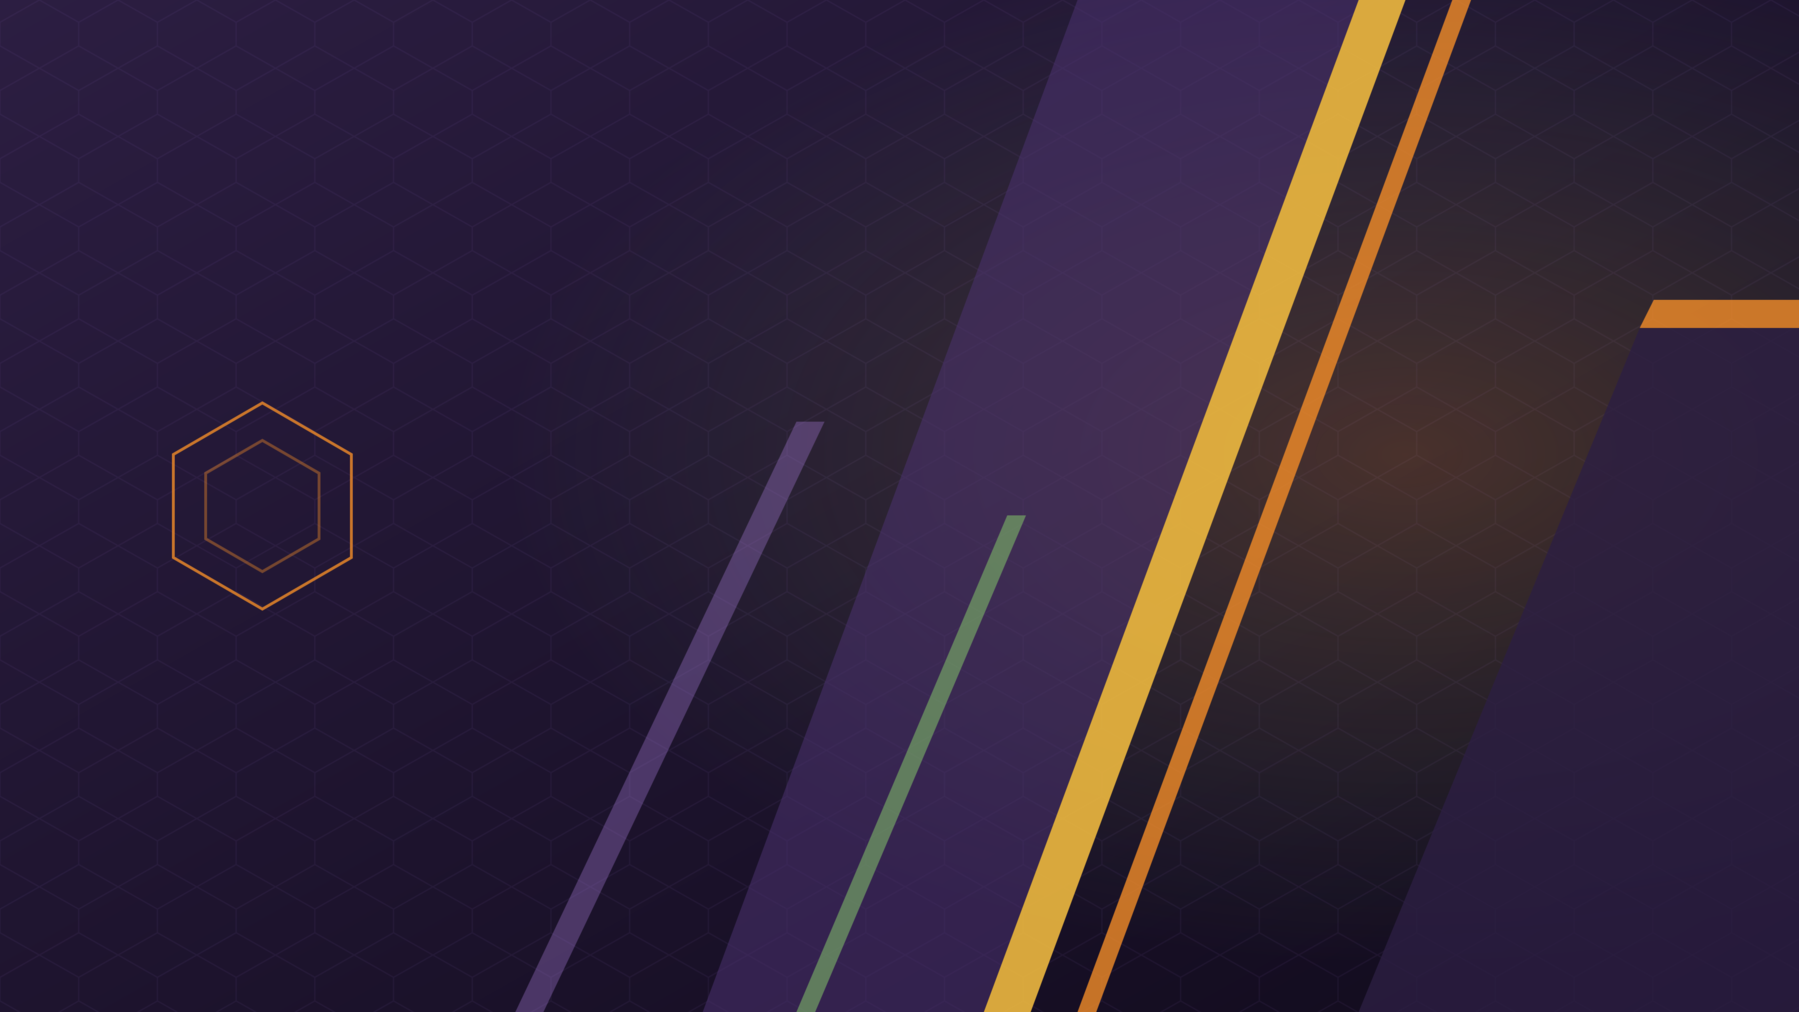
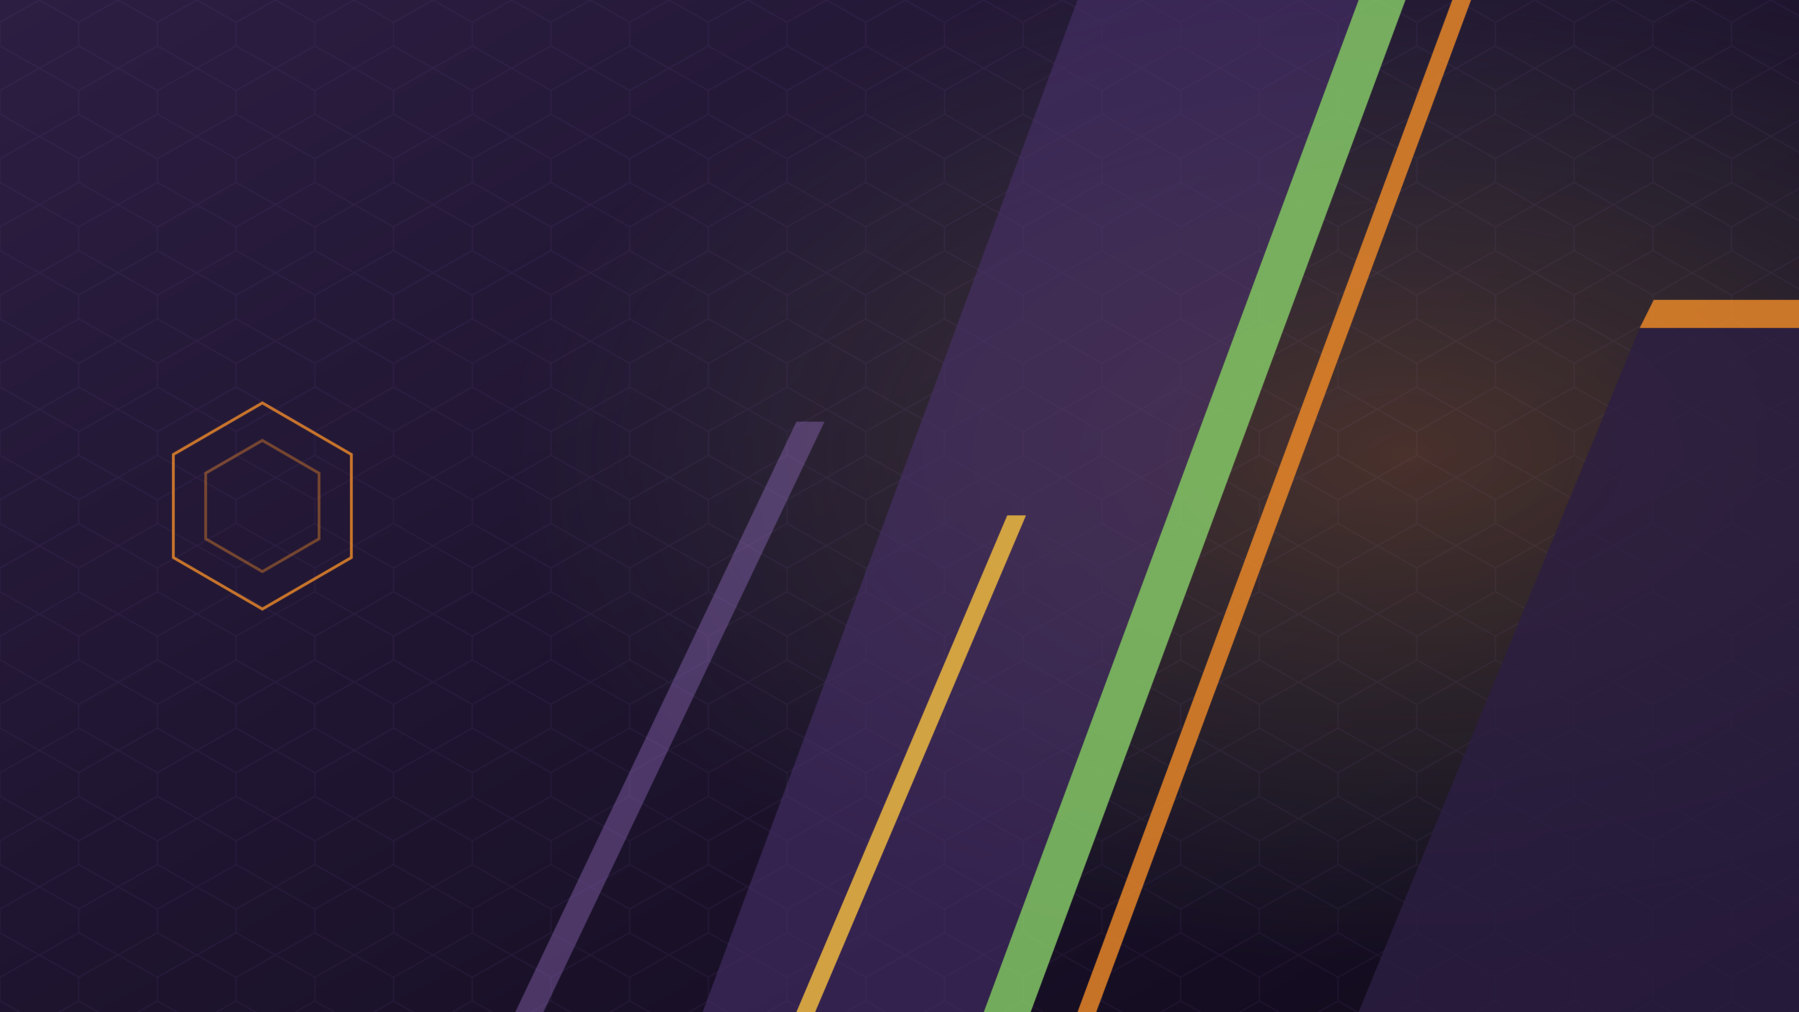
Rebalance: green accent back, keep amber/orange

Changed region(s): [[0.5292, 0.0, 0.7782, 1.0], [0.4669, 0.4901, 0.5914, 0.919], [0.4358, 0.919, 0.4669, 1.0]]

diff --git a/README.md b/README.md
@@ -3,7 +3,7 @@
 ![preview](preview.png)
 
 Dark theme for [Omarchy](https://omarchy.org/) inspired by the **color palette** of Evangelion Unit-01:
-deep violet armor, amber accents, orange flashes and a touch of green — softened for long sessions
+deep violet armor, green accents with amber and orange highlights — softened for long sessions
 (low-saturation mid tones, warm-lavender text, no pure black or pure white).
 
 The wallpaper is an original abstract composition (angular armor plates + hexagon "AT field" motif).
@@ -33,8 +33,8 @@ Chromium, Obsidian and the shell are generated from `colors.toml`.
 |---|---|---|---|---|
 | background | `#1F1530` | | red | `#D9534A` |
 | foreground | `#E0D8EA` | | orange | `#F28C28` |
-| accent (amber) | `#EDB83F` | | yellow | `#F0C24E` |
-| selection | `#4A3270` | | green | `#7DB868` |
+| accent (EVA green) | `#84C766` | | yellow | `#F0C24E` |
+| selection | `#4A3270` | | green | `#6FBF5A` |
 | muted | `#6E5F8A` | | cyan | `#3EB5A8` |
 | | | | blue | `#6B8FE0` |
 | | | | magenta (EVA purple) | `#A77BD6` |
